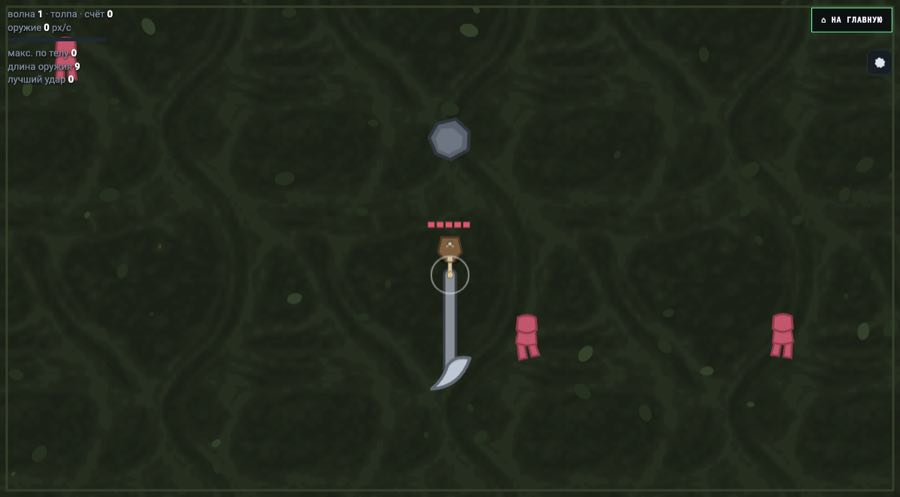
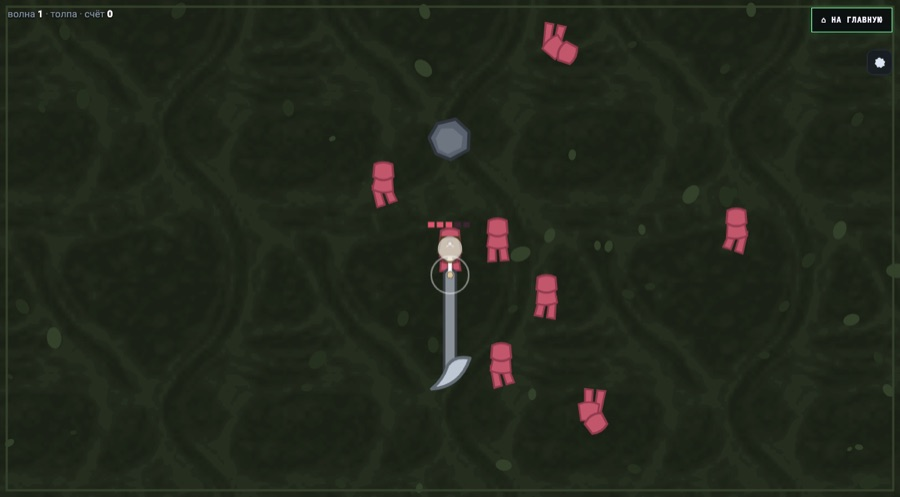
Show the games that exist, not the ones we shot last night
The owner opened his own site and asked why nothing had changed. He was
right. Three games were rebuilt overnight and the showcase still had
frames from six hours earlier.

ТехноМагия's card promised an isometric game. The isometry was removed
weeks ago on the owner's own instruction; the game is top-down. That is
not a stale frame, it is a card telling a visitor something untrue.

Наотмашь had been rebuilt around flow — no upgrade cards between waves,
loot dropping underfoot, weapons swapped mid-fight — and its frame
showed a game that no longer exists.

ПЕРИМЕТР was worse: live at /stealth/, playable, and unreachable from
the showcase. Same case as Один удар last week. It now has a card, and
its own art motif: an eye that closes when you hover, because the whole
game is about staying out of that cone.

No screenshot for it yet. The level is dark by design — that is one of
its three hiding places — and driving it blind produced black
rectangles. A frame from someone who knows the level beats a bad frame
from someone who does not.

The shooter learned two things it lacked. Real key codes: it used to
send "space is 32, everything else is 40", so every arrow arrived as
Down — invisible while only space was pressed. And held keys: walking
is a held key, not a burst of taps, which is why ПЕРИМЕТР's hero moved
one pixel in thirty steps.

Also a check for next time, tools/svezhest-kadrov.mjs. It compares each
[…]

diff --git a/index.html b/index.html
@@ -26,7 +26,7 @@
     <meta name="twitter:title" content="aka-gst — AI/LLM QA, автоматизация, браузерные игры">
     <meta name="twitter:description" content="Портфолио aka-gst: тестовые контуры для AI-агентов, практикумы, продукты и браузерные игры.">
     <meta name="twitter:image" content="https://aka-gst.ru/og.png">
-    <link rel="stylesheet" href="/assets/site.css?v=85840b9a">
+    <link rel="stylesheet" href="/assets/site.css?v=b6bbc732">
     <script>
       // Восстанавливаем выбранный раздел до первой отрисовки, чтобы не мигало.
       try {
@@ -489,12 +489,12 @@
 
         <div class="play-bar">
           <span class="dot" aria-hidden="true"></span>
-          <code>8 игр · открываются по ссылке · без установки и аккаунта</code>
-          <span class="verdict">6 готовых · 2 в альфе</span>
+          <code>9 игр · открываются по ссылке · без установки и аккаунта</code>
+          <span class="verdict">6 готовых · 3 в альфе</span>
         </div>
           <div class="ggrid">
         <a class="gcard" data-art="uno" href="/acid/" data-umami-event="game-open" data-umami-event-game="acid-uno">
-          <span class="gart" aria-hidden="true"><img class="gshot" src="/assets/shots/game-acid.jpg?v=926d066d" alt=""
+          <span class="gart" aria-hidden="true"><img class="gshot" src="/assets/shots/game-acid.jpg?v=48368155" alt=""
                 width="900" height="414" decoding="async" loading="lazy"><video class="gclip" muted loop playsinline preload="none" tabindex="-1"
                 data-src="/assets/clips/clip-acid.mp4?v=750a39b9"></video></span>
           <div class="gcard-body">
@@ -516,22 +516,31 @@
           </div>
         </a>
         <a class="gcard" data-art="chain" href="/worm/" data-umami-event="game-open" data-umami-event-game="worm">
-          <span class="gart" aria-hidden="true"><img class="gshot" src="/assets/shots/game-worm.jpg?v=7fab26fa" alt=""
+          <span class="gart" aria-hidden="true"><img class="gshot" src="/assets/shots/game-worm.jpg?v=0cbb0bf7" alt=""
                 width="900" height="497" decoding="async" loading="lazy"></span>
           <div class="gcard-body">
             <div class="gcard-top"><span class="status status-live">играть</span></div>
             <h3 class="gcard-title">Наотмашь</h3>
-            <p class="gcard-text">Проба физики удара: урон считает скорость, а не кнопка.</p>
+            <p class="gcard-text">Урон считает скорость, а не кнопку. Партия идёт без пауз: награда падает под ноги, оружие меняется на бегу.</p>
+            <span class="launch">ЗАПУСТИТЬ <b>↗</b></span>
+          </div>
+        </a>
+        <a class="gcard" data-art="watch" href="/stealth/" data-umami-event="game-open" data-umami-event-game="stealth">
+          <span class="gart" aria-hidden="true"><i></i><i></i><i></i></span>
+          <div class="gcard-body">
+            <div class="gcard-top"><span class="status status-alpha">играбельный срез</span></div>
+            <h3 class="gcard-title">ПЕРИМЕТР</h3>
+            <p class="gcard-text">Стелс сверху вниз: прячься от взгляда, от слуха и в темноте. Один уровень, четыре прохода.</p>
             <span class="launch">ЗАПУСТИТЬ <b>↗</b></span>
           </div>
         </a>
         <a class="gcard" data-art="elements" href="/technomagic/" data-umami-event="game-open" data-umami-event-game="technomagic">
-          <span class="gart" aria-hidden="true"><img class="gshot" src="/assets/shots/game-technomagic.jpg?v=9cbd9f2a" alt=""
-                width="900" height="497" decoding="async" loading="lazy"></span>
+          <span class="gart" aria-hidden="true"><img class="gshot" src="/assets/shots/game-technomagic.jpg?v=8a64d29e" alt=""
+                width="900" height="480" decoding="async" loading="lazy"></span>
           <div class="gcard-body">
             <div class="gcard-top"><span class="status status-alpha">альфа</span></div>
             <h3 class="gcard-title">ТЕХНОМАГИЯ</h3>
-            <p class="gcard-text">Изометрический экшен про техно-магов. Смешивай стихии и смотри, что осталось на полу.</p>
+            <p class="gcard-text">Экшен сверху вниз про техно-магов. Крепкого одной стихией не возьмёшь — смешивай и смотри, что осталось на полу.</p>
             <span class="launch">ЗАПУСТИТЬ <b>↗</b></span>
           </div>
         </a>

diff --git a/assets/site.css b/assets/site.css
@@ -726,6 +726,21 @@ a.gcard.is-lit .gclip { transform: scale(1.06); }
 [data-art="rune"].is-lit .gart i:nth-child(1) { transform: rotate(135deg) translateY(-20px); }
 [data-art="rune"].is-lit .gart i:nth-child(3) { transform: rotate(-45deg) translateY(20px); }
 
+/* ПЕРИМЕТР — чужой взгляд: зрачок и две створки. На наведении глаз
+   закрывается, потому что вся игра про то, чтобы в него не попасть. */
+[data-art="watch"] .gart i {
+  width: 34px; height: 7px; border-radius: 4px; background: var(--neon-2);
+}
+[data-art="watch"] .gart i:nth-child(1) { transform: translateY(-21px); }
+[data-art="watch"] .gart i:nth-child(2) {
+  width: 26px; height: 26px; border-radius: 50%;
+  background: none; border: 2px solid var(--neon);
+}
+[data-art="watch"] .gart i:nth-child(3) { transform: translateY(21px); }
+[data-art="watch"].is-lit .gart i:nth-child(1) { transform: translateY(-5px); }
+[data-art="watch"].is-lit .gart i:nth-child(3) { transform: translateY(5px); }
+[data-art="watch"].is-lit .gart i:nth-child(2) { opacity: .2; transform: scaleY(.15); }
+
 /* Лила — пять клеток поля. */
 [data-art="dice"] .gart i { width: 16px; height: 16px; border-radius: 3px; background: var(--line); border: 1px solid var(--dim); }
 [data-art="dice"] .gart i:nth-child(1) { transform: translate(-30px, -20px); }

diff --git a/rasskazy/prosto-ya-zabyla-kakovo-eto/index.html b/rasskazy/prosto-ya-zabyla-kakovo-eto/index.html
@@ -9,7 +9,7 @@
     <title>Просто я забыла, каково это — Сергей Гостов</title>
     <link rel="canonical" href="https://aka-gst.ru/rasskazy/prosto-ya-zabyla-kakovo-eto/">
     <link rel="icon" href="/favicon.svg" type="image/svg+xml">
-    <link rel="stylesheet" href="/assets/site.css?v=85840b9a">
+    <link rel="stylesheet" href="/assets/site.css?v=b6bbc732">
     <link rel="stylesheet" href="/assets/read.css?v=96f28a75">
     <script defer src="/pulse/script.js" data-website-id="de024048-c4c3-4639-bbdf-808c558f6d71"></script>
   </head>

diff --git a/rasskazy/blizorukiy-toropyga/index.html b/rasskazy/blizorukiy-toropyga/index.html
@@ -9,7 +9,7 @@
     <title>Близорукий торопыга — Сергей Гостов</title>
     <link rel="canonical" href="https://aka-gst.ru/rasskazy/blizorukiy-toropyga/">
     <link rel="icon" href="/favicon.svg" type="image/svg+xml">
-    <link rel="stylesheet" href="/assets/site.css?v=85840b9a">
+    <link rel="stylesheet" href="/assets/site.css?v=b6bbc732">
     <link rel="stylesheet" href="/assets/read.css?v=96f28a75">
     <script defer src="/pulse/script.js" data-website-id="de024048-c4c3-4639-bbdf-808c558f6d71"></script>
   </head>

diff --git a/rasskazy/stendap-dlya-nikogo/index.html b/rasskazy/stendap-dlya-nikogo/index.html
@@ -9,7 +9,7 @@
     <title>Стэндап для никого — Сергей Гостов</title>
     <link rel="canonical" href="https://aka-gst.ru/rasskazy/stendap-dlya-nikogo/">
     <link rel="icon" href="/favicon.svg" type="image/svg+xml">
-    <link rel="stylesheet" href="/assets/site.css?v=85840b9a">
+    <link rel="stylesheet" href="/assets/site.css?v=b6bbc732">
     <link rel="stylesheet" href="/assets/read.css?v=96f28a75">
     <script defer src="/pulse/script.js" data-website-id="de024048-c4c3-4639-bbdf-808c558f6d71"></script>
   </head>

diff --git a/rasskazy/materinskaya-plata/index.html b/rasskazy/materinskaya-plata/index.html
@@ -9,7 +9,7 @@
     <title>Материнская плата — Сергей Гостов</title>
     <link rel="canonical" href="https://aka-gst.ru/rasskazy/materinskaya-plata/">
     <link rel="icon" href="/favicon.svg" type="image/svg+xml">
-    <link rel="stylesheet" href="/assets/site.css?v=85840b9a">
+    <link rel="stylesheet" href="/assets/site.css?v=b6bbc732">
     <link rel="stylesheet" href="/assets/read.css?v=96f28a75">
     <script defer src="/pulse/script.js" data-website-id="de024048-c4c3-4639-bbdf-808c558f6d71"></script>
   </head>

diff --git a/rasskazy/teplovaya-lovushka/index.html b/rasskazy/teplovaya-lovushka/index.html
@@ -9,7 +9,7 @@
     <title>Тепловая ловушка — Сергей Гостов</title>
     <link rel="canonical" href="https://aka-gst.ru/rasskazy/teplovaya-lovushka/">
     <link rel="icon" href="/favicon.svg" type="image/svg+xml">
-    <link rel="stylesheet" href="/assets/site.css?v=85840b9a">
+    <link rel="stylesheet" href="/assets/site.css?v=b6bbc732">
     <link rel="stylesheet" href="/assets/read.css?v=96f28a75">
     <script defer src="/pulse/script.js" data-website-id="de024048-c4c3-4639-bbdf-808c558f6d71"></script>
   </head>

diff --git a/rasskazy/purpurnye-oblaka/index.html b/rasskazy/purpurnye-oblaka/index.html
@@ -9,7 +9,7 @@
     <title>Пурпурные облака — Сергей Гостов</title>
     <link rel="canonical" href="https://aka-gst.ru/rasskazy/purpurnye-oblaka/">
     <link rel="icon" href="/favicon.svg" type="image/svg+xml">
-    <link rel="stylesheet" href="/assets/site.css?v=85840b9a">
+    <link rel="stylesheet" href="/assets/site.css?v=b6bbc732">
     <link rel="stylesheet" href="/assets/read.css?v=96f28a75">
     <script defer src="/pulse/script.js" data-website-id="de024048-c4c3-4639-bbdf-808c558f6d71"></script>
   </head>

diff --git a/rasskazy/chetvertaya-stena/index.html b/rasskazy/chetvertaya-stena/index.html
@@ -9,7 +9,7 @@
     <title>Четвёртая стена — Сергей Гостов</title>
     <link rel="canonical" href="https://aka-gst.ru/rasskazy/chetvertaya-stena/">
     <link rel="icon" href="/favicon.svg" type="image/svg+xml">
-    <link rel="stylesheet" href="/assets/site.css?v=85840b9a">
+    <link rel="stylesheet" href="/assets/site.css?v=b6bbc732">
     <link rel="stylesheet" href="/assets/read.css?v=96f28a75">
     <script defer src="/pulse/script.js" data-website-id="de024048-c4c3-4639-bbdf-808c558f6d71"></script>
   </head>

diff --git a/rasskazy/myasnaya-konserva/index.html b/rasskazy/myasnaya-konserva/index.html
@@ -9,7 +9,7 @@
     <title>Мясная консерва — Сергей Гостов</title>
     <link rel="canonical" href="https://aka-gst.ru/rasskazy/myasnaya-konserva/">
     <link rel="icon" href="/favicon.svg" type="image/svg+xml">
-    <link rel="stylesheet" href="/assets/site.css?v=85840b9a">
+    <link rel="stylesheet" href="/assets/site.css?v=b6bbc732">
     <link rel="stylesheet" href="/assets/read.css?v=96f28a75">
     <script defer src="/pulse/script.js" data-website-id="de024048-c4c3-4639-bbdf-808c558f6d71"></script>
   </head>

diff --git a/rasskazy/tolko-poezdami/index.html b/rasskazy/tolko-poezdami/index.html
@@ -9,7 +9,7 @@
     <title>Только поездами! — Сергей Гостов</title>
     <link rel="canonical" href="https://aka-gst.ru/rasskazy/tolko-poezdami/">
     <link rel="icon" href="/favicon.svg" type="image/svg+xml">
-    <link rel="stylesheet" href="/assets/site.css?v=85840b9a">
+    <link rel="stylesheet" href="/assets/site.css?v=b6bbc732">
     <link rel="stylesheet" href="/assets/read.css?v=96f28a75">
     <script defer src="/pulse/script.js" data-website-id="de024048-c4c3-4639-bbdf-808c558f6d71"></script>
   </head>

diff --git a/rasskazy/pulya-v-stakane/index.html b/rasskazy/pulya-v-stakane/index.html
@@ -9,7 +9,7 @@
     <title>Пуля в стакане — Сергей Гостов</title>
     <link rel="canonical" href="https://aka-gst.ru/rasskazy/pulya-v-stakane/">
     <link rel="icon" href="/favicon.svg" type="image/svg+xml">
-    <link rel="stylesheet" href="/assets/site.css?v=85840b9a">
+    <link rel="stylesheet" href="/assets/site.css?v=b6bbc732">
     <link rel="stylesheet" href="/assets/read.css?v=96f28a75">
     <script defer src="/pulse/script.js" data-website-id="de024048-c4c3-4639-bbdf-808c558f6d71"></script>
   </head>
